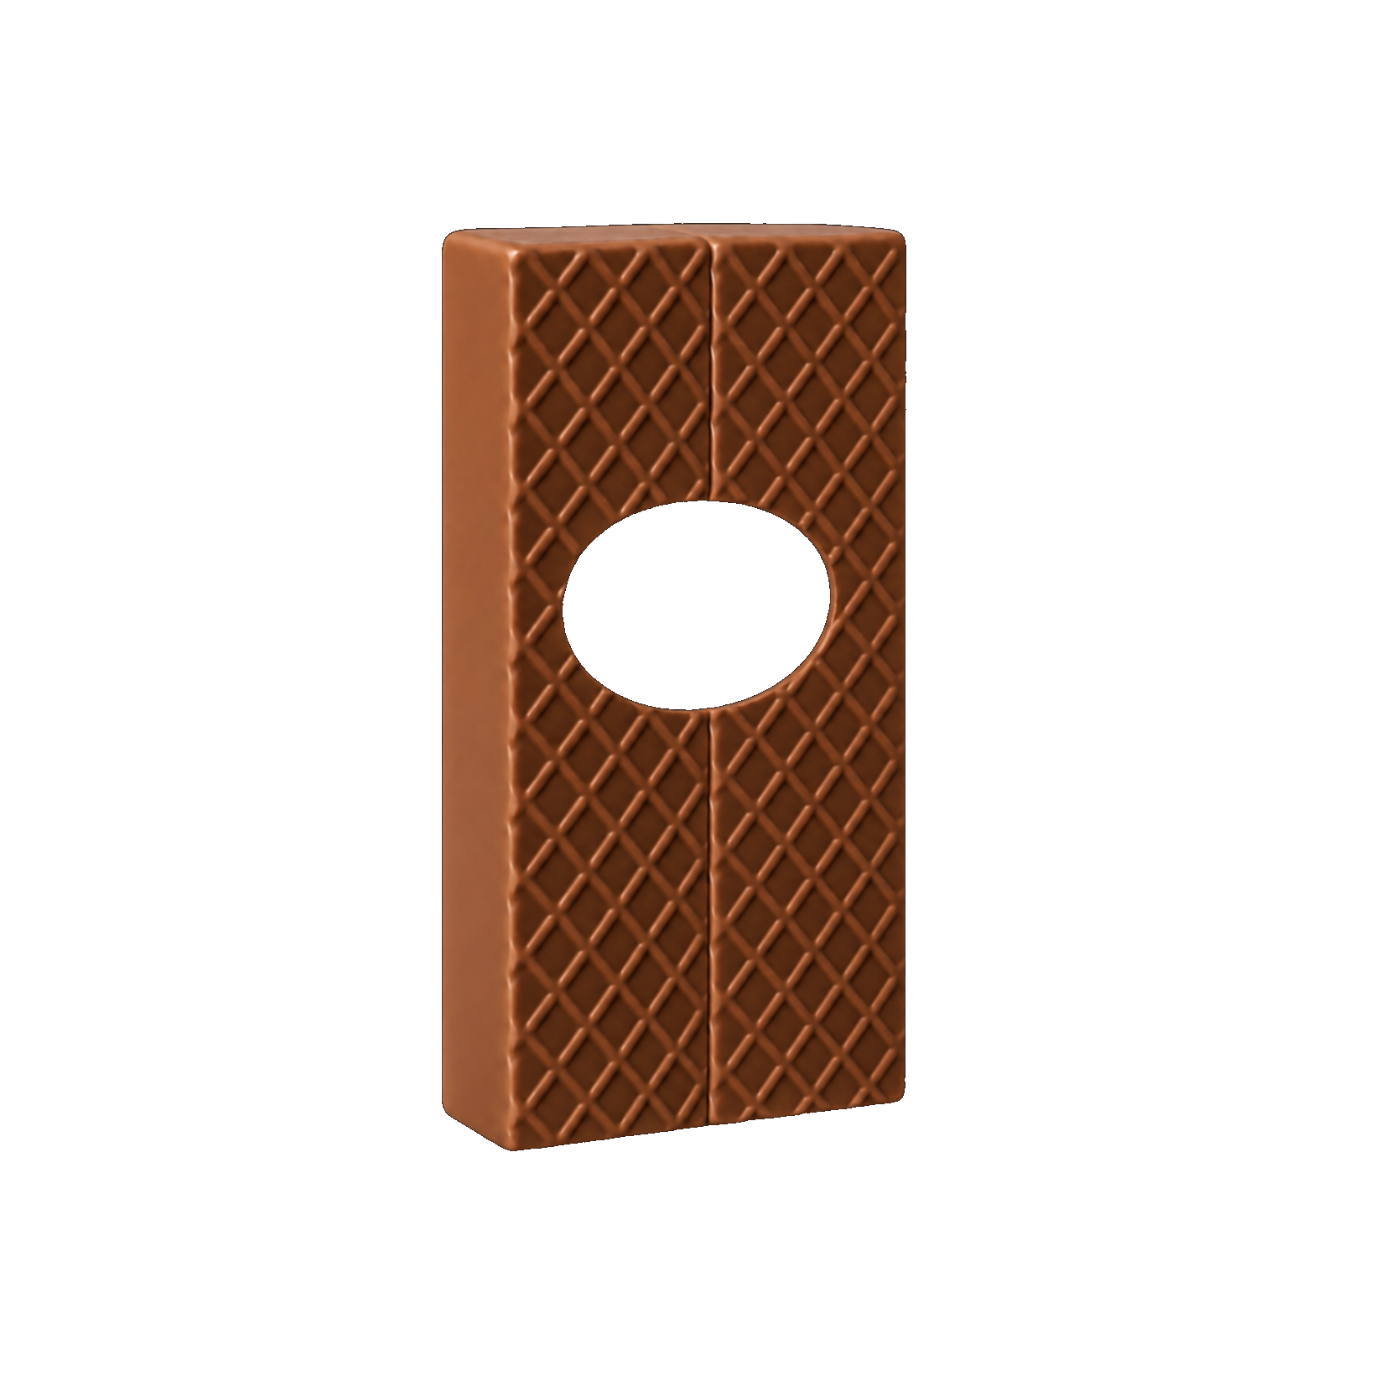
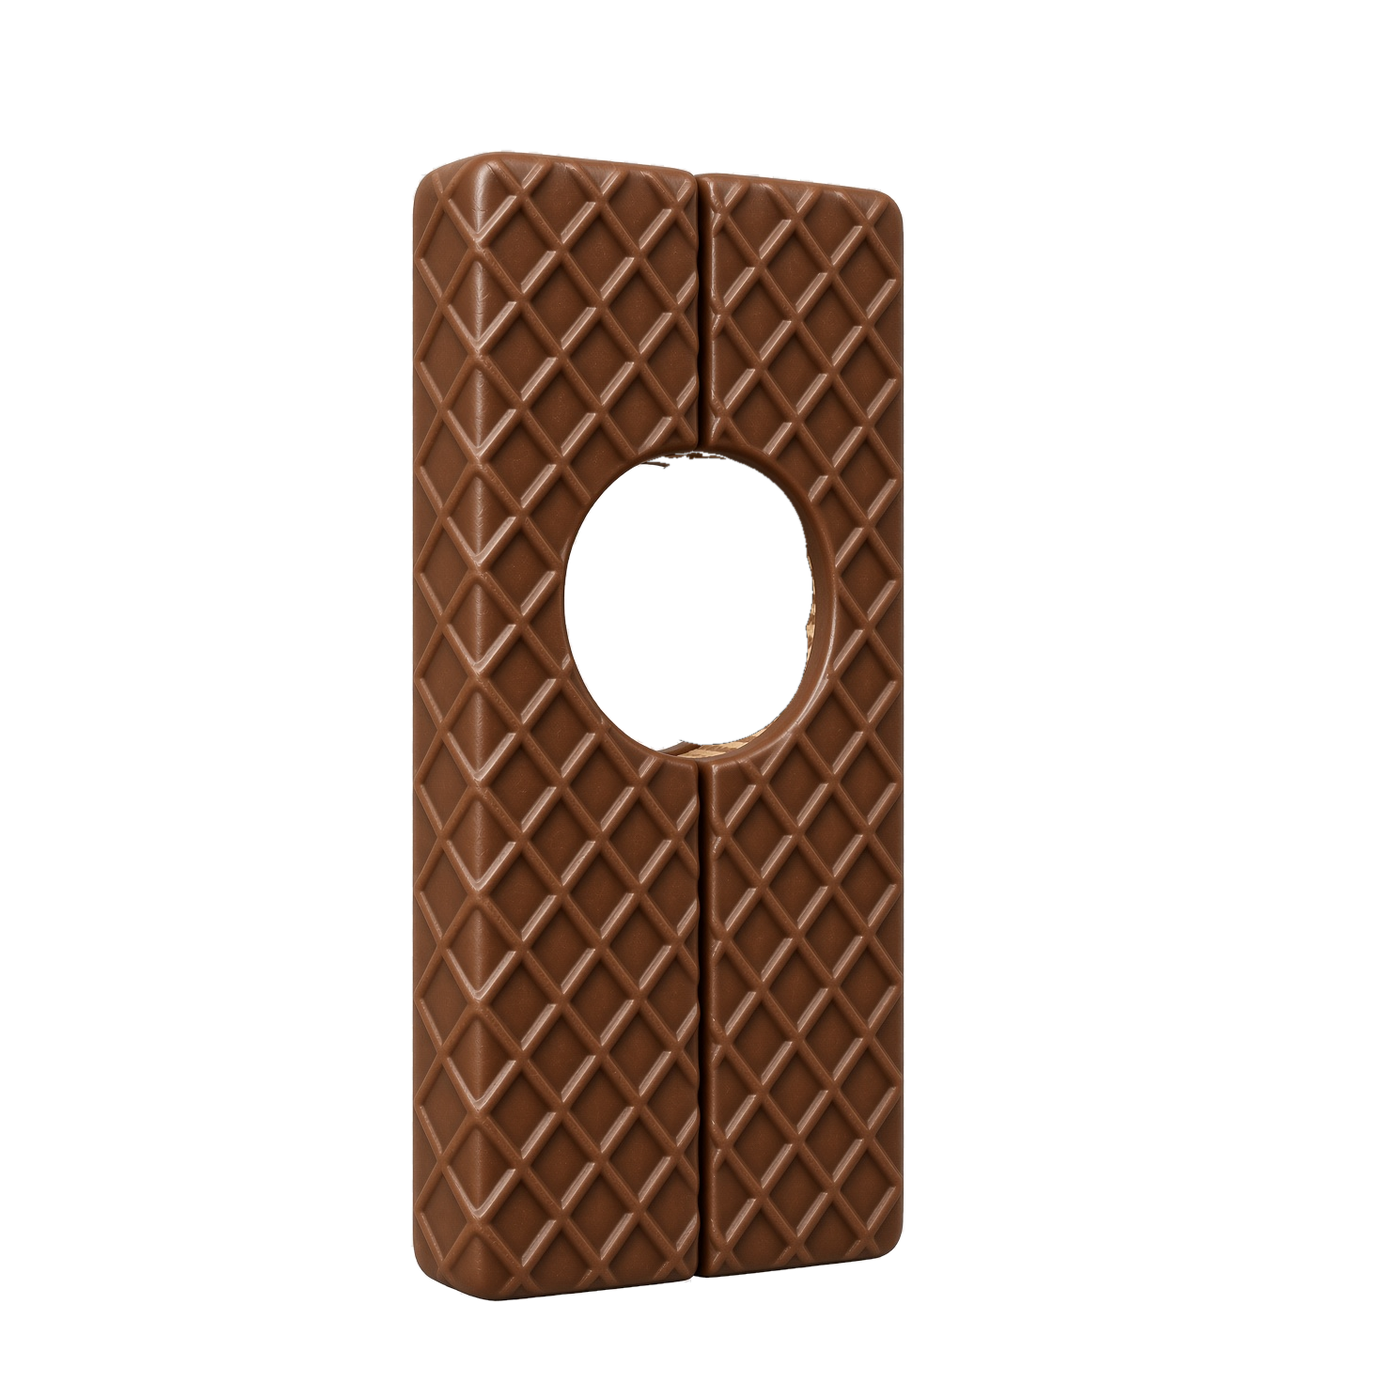
Install the regenerated Nutty Bar
Render 3 arrived as a real 1393 x 1393 RGBA PNG. Two extraction problems
had to be fixed rather than any fault in the art:

- The transparency around the bar was flattened to opaque checkerboard
  while the hole kept real alpha, so the outside needed keying and the
  render's own alpha needed preserving for the hole.
- 6270px of the hole was ALSO baked checkerboard - a 123 x 303 crescent on
  its left rim written as opaque instead of alpha-0. Taking the hole as
  alpha==0 alone left that as solid art and rendered a checkered sliver
  inside the face. The hole is the union of the alpha-0 region and any
  enclosed checker.

After registration the bar measures 495 x 1154 with a 246 x 292 hole and
eye/hole 1.13 - the cast median exactly, so the eyes overlap the rim the
way the rest of the collection does.

Three tables re-derived:
- CHAR_SCALE 0.93. At native size the bar is 1154 tall and standing on the
  1132 bar line its crown lands at y=-22, off the canvas. 0.93 buys a 60px
  top margin and keeps eye/hole at 1.22, inside the cast's 1.04-1.57 band.
- CHAR_Y_ADJUST -121, landing on 1133 against the group's 1132.
- FACE_HOLE_BOTTOM_OVERRIDE 751. Its hole is the only TALL one in the cast,
  so the ball's width covers it but its height does not; without this 3161px
  of background shows through top and bottom, with it 233px.

Old art kept in characterz_originals/. verify_placement 27 characters
0/0/0, build_mint --n 400 camouflage=0 eye-clash=0, canvas 1393 RGBA.
[…]

Changed region(s): [[0.2778, 0.0926, 0.6482, 0.9569]]

diff --git a/generator.py b/generator.py
@@ -652,7 +652,8 @@ CHAR_Y_ADJUST = {
     "oatmeal_cream_pie": 14,
     "churro": 21,              # joins Twinkie and Nutty Bar on the 1132 bar
                                # line; it was the odd one out at 1111
-    "nutty_bar": -19,          # bar body, stands with the Twinkie at 1132     # rescaled; feet on the shared ground line (1111)
+    "nutty_bar": -121,         # bar body, stands with the Twinkie at 1132;
+                               # re-derived for the regenerated art     # rescaled; feet on the shared ground line (1111)
 }
 
 def char_y_adjust(char_name):
@@ -741,6 +742,11 @@ CHAR_SCALE = {
     # feet on the same line as the rescaled cone tips and their width (581px)
     # alongside the rescaled ice creams (582px), keeping the two a family.
     "gummy_bear": 0.881,
+    # The regenerated bar is 1154 tall against the old art's 929, which does not
+    # fit the canvas standing on the 1132 bar line - its crown lands at y=-22.
+    # 0.93 buys a 60px top margin and keeps eye/hole at 1.22, inside the cast's
+    # 1.04-1.57 band.
+    "nutty_bar": 0.93,
 }
 
 def char_scale(char_name):
@@ -914,6 +920,11 @@ FACE_HOLE_BOTTOM = 732
 # match on the character base-name.
 FACE_HOLE_BOTTOM_OVERRIDE = {
     "gold_waffle": 750,   # hole bottom ~741; ball must reach below it
+    "nutty_bar": 751,     # its hole is a TALL ellipse (246 x 292) where the
+                          # rest of the cast's are round or wide, so the ball's
+                          # width covers it but its height does not. Reaching
+                          # to 751 grows the ball to ~305 tall and closes the
+                          # crescents at the top and bottom of the hole.
 }
 
 def face_hole_bottom(char_name):

diff --git a/CHARACTERZ_BODY_PROMPTS.md b/CHARACTERZ_BODY_PROMPTS.md
@@ -14,7 +14,7 @@ Companion docs: `SKIN_ENHANCE_PROMPTS.md`, `EYEZ_ENHANCE_PROMPTS.md`,
 |---|---|
 | Ice creams | **Settled — shipping as delivered.** The 5 regenerated cones (vanilla, neapolitan, rocky road, cyan sherbert, pink sherbert) are live and final. The 3 that were not returned — mint choc chip, zaffre sherbert, rainbow sherbert — are **retired from the trait set**. |
 | Gummy bears | **OG only.** Cyan, pink and purple are retired from the trait set; the OG bear keeps its current art. Prompts below if it is ever revisited. |
-| Nutty Bar | Unchanged. Prompt and measured spec in §6. |
+| Nutty Bar | **Regenerated and live.** New art registered, `CHAR_SCALE` 0.93 and `CHAR_Y_ADJUST` -121 re-derived, `FACE_HOLE_BOTTOM_OVERRIDE` 751 added. Prompts and the render-by-render measurements in §6. |
 
 **The cone-shortening work in §4a is closed, not pending.** The ice creams keep
 their delivered proportions (face at 0.344 of body height) and
@@ -1298,10 +1298,49 @@ normalises to a 748 x 1714 body — clipped on a 1393 canvas. Thinning the wall
 to about a fifth of the opening fixes the aperture, the shape and the fit in one
 change, and keeps the depth cue that makes the render good.
 
-### The edit prompt
+### Render 3 — accepted, with two extraction fixes
 
-Use this against render 2 rather than starting over — everything except the
-aperture is already right.
+The third render landed it, and the file arrived as a genuine 1393 x 1393 RGBA
+PNG rather than a preview. Two things still had to be repaired on the way in,
+and both were mine to catch rather than the generator's to avoid:
+
+- **The surrounding transparency was flattened but the hole's was not.** The
+  checkerboard around the bar is opaque pixels; the hole is real alpha-0. So the
+  outside had to be keyed while the render's own alpha was kept for the hole.
+- **6270px of the hole was still baked checkerboard**, a 123 x 303 crescent on
+  its left rim that the generator wrote as opaque instead of alpha-0. Taking the
+  hole as `alpha == 0` alone left that crescent as solid white-grey art, which
+  rendered as a checkered sliver inside the face. The hole is the union of the
+  alpha-0 region and any enclosed checker: 264 x 318 rather than 252 x 314, and
+  hole/bar 0.50 rather than 0.48.
+
+Measured after registration:
+
+| | old art | render 3 | |
+|---|---:|---:|---|
+| Body | 466 x 929 | 495 x 1154 | taller |
+| Aspect | 1.99 | 2.34 | more slender |
+| Hole | 267 x 209 | 246 x 292 | now taller than wide |
+| Eye / hole | 1.04 | **1.13** | cast median exactly |
+| Face-frac | 0.410 | 0.392 | |
+
+Three table changes follow from the new proportions:
+
+- `CHAR_SCALE["nutty_bar"] = 0.93`. At native size the bar is 1154 tall, and
+  standing on the 1132 bar line its crown lands at y=-22 — off the canvas. 0.93
+  buys a 60px top margin and leaves eye/hole at 1.22, inside the cast's
+  1.04-1.57 band.
+- `CHAR_Y_ADJUST["nutty_bar"] = -121`, re-derived; it lands on 1133 against the
+  group's 1132.
+- `FACE_HOLE_BOTTOM_OVERRIDE["nutty_bar"] = 751`. Its hole is the only TALL one
+  in the cast (246 x 292 where the rest are round or wide), so the standard
+  ball's width covers it but its height does not. Without this, 3161px of
+  background shows through as crescents top and bottom; with it, 233px, which is
+  the antialiasing seam.
+
+### The edit prompt that produced it
+
+Kept for reference.
 
 ```
 Edit this chocolate wafer bar. Keep EVERYTHING about it — the shape, the
